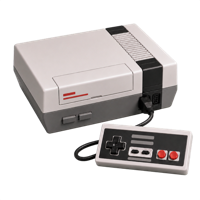
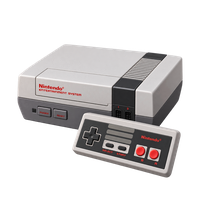
Site: build 38 changelog, roadmap, help and console art
- Changelog: the console record, a color per appearance, the redrawn console
  set, choosing many games at once, importing a CSV — plus the galleries,
  spin-in-place, the three-column stage, the Mac's own window, and the fixes
  since 09-08. Still draft, so it stays off the changelog page until release.
- Roadmap: 'The consoles themselves' moves into shipped for 38 with the color
  pairs and bulk select; reviewed 11 September. What's Coming reads this file.
- Help: importing a CSV, fixing many games at once, the console record, and
  which machine a console draws, under two new cards.
- The six console pictures on the home page re-exported from the app's icons.

diff --git a/site/src/data/roadmap.ts b/site/src/data/roadmap.ts
@@ -8,9 +8,21 @@
  */
 
 /** Shown on both surfaces, so the app can say when this was last honest. */
-export const reviewed = '7 September 2026';
+export const reviewed = '11 September 2026';
 
 export const shipped = [
+  { t: 'The consoles themselves', build: 38,
+    d: 'A console is something you own in its own right: how you have it, when you got it, a photograph of the actual machine — and which model the app draws, from the Funtastic N64 to a coral Switch Lite.' },
+  { t: 'A color for light and another for dark', build: 38,
+    d: 'Pick a pair for each appearance and the app changes with the system — accent, ground and widgets together.' },
+  { t: 'Choose many games at once', build: 38,
+    d: 'Select games in Library or on a console page and set the console you own them on, or their status, for all of them together.' },
+  { t: 'Home is yours to arrange', build: 38,
+    d: 'Your consoles in a case under your name, every shelf a choice, a collection as its own shelf — in the order you drag, following you to every device.' },
+  { t: 'Maps, with pins that mean something', build: 38,
+    d: 'Your own pictures of a game world, with pins you drop. Link a pin to a tracker item and ticking either one ticks the other.' },
+  { t: 'A collection that fills itself', build: 38,
+    d: "Save Library's filters as a collection and it keeps itself current — add a game that fits and it's in." },
   { t: 'Your words for your library', build: 37,
     d: 'Call a console whatever you call it — Mega Drive or Genesis, Super Nintendo or SNES — and it changes every shelf, chip and widget that names it. Rename statuses and stars too.' },
   { t: 'Nine ways a game can be yours', build: 37,
@@ -75,7 +87,6 @@ export const horizons = [
     note: 'planned',
     color: '#0A84FF',
     items: [
-      { t: 'The consoles themselves', d: "A system becomes something you own in its own right, with add-ons attached to the machine they plug into — rather than a label that only ever exists on a game." },
       { t: 'Moments worth celebrating', d: 'Finishing a game or hitting a milestone should feel like something.' },
       { t: 'Replays', d: 'A look back at a month, a quarter or a year, built from your own library on your own device.' },
     ],

diff --git a/site/src/content/changelog/0.1.0-38.md b/site/src/content/changelog/0.1.0-38.md
@@ -1,0 +1,103 @@
+---
+version: "0.1.0 (38)"
+date: 2026-09-08
+title: "Home is a self-portrait, and the map comes home"
+summary: "Your consoles are things you own now, in a case under your name — each one a record with its own photo, and the machine you actually had drawn on it. Maps come to the game page, and every color works on both grounds."
+draft: true
+---
+
+Home used to decide for you what came first. It was a fair guess — what you're playing, then what's next — but it's your page, and the guess said nothing about who you are.
+
+### Home is yours to arrange [new]
+
+**The display case.** Your consoles sit under your name in a three-wide case, six at a time, the rest behind See all. Press and hold it for **Arrange Systems**: how many reach Home, the order — drag it, or pick North American release order, most games, or A–Z — and whether you'd rather have a scrolling row than a case. Someone with four systems will want the row; it's a switch.
+
+**Every shelf is a choice.** Press and hold any shelf for **Arrange Home**: drag the blocks, switch any of them off, and bring Backlog or Finished up from Library if you want them here. This order follows you to your other devices — a self-portrait isn't a per-device setting.
+
+**See all shows the consoles.** The case holds six; "See all" opens every console you own as a grid, in your order. Tap one for your games on it.
+
+**A collection can be a shelf.** "Six That Made Me" on Home, its covers under its name, says more than a tile in a row of tiles. Open a collection and choose **Show on Home** from its ⋯ menu, or press and hold its card in Library. Remove it the same way.
+
+**A collection can fill itself.** Set Library's filters — Backlog, on the SNES, physical — and **save those filters as a collection**. It's a Smart Collection: add a game that fits and it's in, change the game and it may leave. It can live on Home like any other.
+
+**A new library leads with the question.** Before a single game, Home asks which consoles are yours.
+
+### Maps, with pins that mean something [new]
+
+A game page has a **Maps** section now. A map is a picture you own of the game — from your Photo Library, from Files, pasted, or found: give the finder a wiki page and it reads the map images off it, checks each one exists, and keeps the site it came from with the map.
+
+Open one and pinch, pan, and drop pins — press and hold anywhere, or use Place to pan the map under a ring. A pin is a collectible, a note, a warning, or a secret; the legend at the bottom is also the filter. Mark a pin **explored** and it dims with a check; **Left** and **Explored** split what's still out there from what isn't.
+
+**Link a pin to a tracker item and they become one thing.** The pin takes the item's name, shows its checkbox, and ticking either one ticks the other — with the same journal line. From the tracker, an item with a pin says "On the map"; one without offers **Pin on Map…** and opens the map with the item already chosen, two taps from "where is it" to a pin that ticks.
+
+Maps sync with your library, go to Recently Deleted when you delete them, and come with an export.
+
+### Seven colors, and nothing to get wrong [new]
+
+The color picker is seven circles. Pick one for the **accent** and it's the same color on both grounds — writing in its darker step on light, as itself on dark, so nothing ever needs correcting. Pick one for the **background** and the ground becomes that color laid over the app's grey and charcoal, which cannot make text unreadable however you choose. The preview shows both grounds at once, side by side. The hue plane, the hex field and the saved swatches are gone; so is "Match light and dark", because the palette is the matching.
+
+Buttons look the way the palette does: the accent as the fill, its step as the ink and as a hard edge beneath. Play on Home, Start Session and Place on a map lead; no more white text on a light ground.
+
+### Your consoles are things you own [new]
+
+A console used to be a word on a game. It's a record now: **how** you have it — the same nine ways a game can be yours — **when you got it**, and a photograph of the actual machine on your shelf.
+
+**It fills itself in.** Add a game on the SNES and the SNES is yours; a physical game on a console you only emulate asks first, once, and remembers your answer. Nothing is ever assumed from a display copy.
+
+**Which one you had.** A platform is thirty years of different objects, so the console page asks which machine to draw: the Funtastic N64 or the charcoal one, the front-loading NES or the top-loader, a Switch Lite in coral, a Game Boy in Play It Loud yellow. Underneath, **Machines you have had** keeps the whole lineage, oldest first — the Mac from 1984 and the one on your desk today.
+
+Consoles export with your library, and deleting one leaves it in Recently Deleted for thirty days.
+
+### A color for light and another for dark [new]
+
+The palette is seven pairs plus Mono, and each appearance gets its own. Tap the light half of the preview and pick; tap the dark half and pick something else. Follow the system and the app changes with it — accent, ground, widgets and all. "Use the default colors" puts both back to what an empty library looks like.
+
+The play controls answer your finger now: a firm tap when you start or resume, a lighter one for pause and stop, and a small success when a session is logged.
+
+### The console set, redrawn [new]
+
+Ninety-odd machines, drawn again with nothing plugged in: ports empty, the controller sitting in front. Every logo is back where the real hardware has it, and the shells you can choose from now run to the Funtastic N64s, the Play It Loud Game Boys, the Game Boy Color's berry and kiwi and teal, the GBA and its SP, the DS Lite, the 3DS, the GameCube, the Switch Lite and the OLED.
+
+### Choose many games at once [new]
+
+**Library or any console page → Filter → Select Games…**. Tap the ones you mean — each gets a check and an accent outline — then set the console you own them on, or their status, for all of them together. It's the fastest way to fix a hundred games that came in from another app on the wrong system.
+
+### Bringing a library in [new]
+
+**Settings → Your data → Import from CSV** reads an export from Gamery, Backloggd, a spreadsheet, or anywhere else. A row that carries an **IGDB id** is matched by it, exactly, rather than guessed at from its title — so an export that has them arrives with nothing to check. A cell naming two systems ("Xbox,Mac") makes the game yours on both. Everything is reviewed before a single game is added, and it waits if iCloud is still bringing your library down.
+
+### Also new
+
+- **Your series, from Wikidata.** When IGDB filed a game under no franchise, Game Info's Series line and the "More from…" shelf use Wikidata's series instead.
+- **Paste a Google Sheets link.** In a tracker's list importer, paste the sheet's link and Read: the tab's rows come in for review like any pasted list. No account, no key. If the sheet's owner has turned off downloading, it says so.
+- **The case is six across** on iPad and Mac, one row of hardware instead of a phone grid stretched.
+- **Continue Playing is three things, not one.** The cover and the words open the game; Play, Stop, and Resume are their own buttons beside it.
+- **Settings in dark mode** has a solid ground behind every page, so covers no longer bleed through the sheet — and every page stands on the ground you chose.
+- **Move a pin.** Open it and choose Move Pin; the map pans under the ring and Place becomes "Move here".
+- **Delete a memory**, from its sheet or its row's press-and-hold. It waits in Recently Deleted for 30 days with its pictures.
+- **Maps sit after the tracker** on the game page, and Compact is the default tracker layout.
+- **Ownership & access, Custom order:** the chips grow a grip and drag onto each other, right in the row.
+- **The systems case** folds a console stored under two spellings into one tile, and its press-and-hold offers Arrange Home and Hide from Home like every other shelf.
+- **A busy spreadsheet tab** — a banner, a list, and calculators beside it — reads as the list, named by its own header.
+- **Recently Deleted** names a map. **Search** shows only the collections a match is in. On **iPad** your name and picture are centered and a size up. The tracker page wears the game's logo as its title.
+- **Memories in Recently Deleted.** The one thing you could write that couldn't be recovered. Restoring a memory brings back the pictures that left with it.
+- The in-app question waits until a game has been in your library for a day, rather than appearing beside the first title you type.
+- **Ownership & access** — the settings row's new name, since five of its nine words aren't ownership.
+
+- **Swipe through the pictures.** Open a screenshot and swipe for the next one; tap another trailer and it replaces the one playing, without closing anything first.
+- **Spin the art in place.** Drag a game's cover or logo on its page and it tilts and springs back. Right-click either one — press and hold on a phone — for all three artwork choices.
+- **Three columns on a wide window.** Open the tracker and the videos on a Mac window wider than 1,400pt and the game page stays beside them rather than sliding off.
+- **All Game Pages is a window of its own on the Mac**, so you can drag it off the header you are changing and watch the page change behind it.
+- **The Mac saves where you say.** Export opens a real save panel, every settings page wears the app's colors, and Escape closes a sheet.
+
+### Fixed
+
+- A memory written after 8 PM Eastern was filed on tomorrow. It's filed on the day you wrote it, in every time zone.
+- Adding a map from the Photo Library opened nothing. It opens the picker.
+- The ⋯ button's shadow in light mode read as a grey smear. It's a quarter of the weight there.
+- The Theme & colors page kept the old accent on its own icon after you changed it, and its swatch drew the ink rather than the color you picked.
+- A game page layout that no longer exists ("banner", from an old build) repairs itself to Showcase instead of syncing forever.
+- Scrolling down a game page and then resizing the window sent you back to the top. It keeps your place, both directions.
+- A ground chosen for dark mode was being worn by light mode's Home Screen widget, and a game page kept the app's built-in purple instead of the color you chose.
+- The color editor could show colors you were not wearing after iCloud synced a change; the app now re-reads the theme whenever a sync lands.
+- On the Mac, the settings sheet's Done sat on every page, above the color editor's own Cancel and Done. It belongs to the settings home page.
